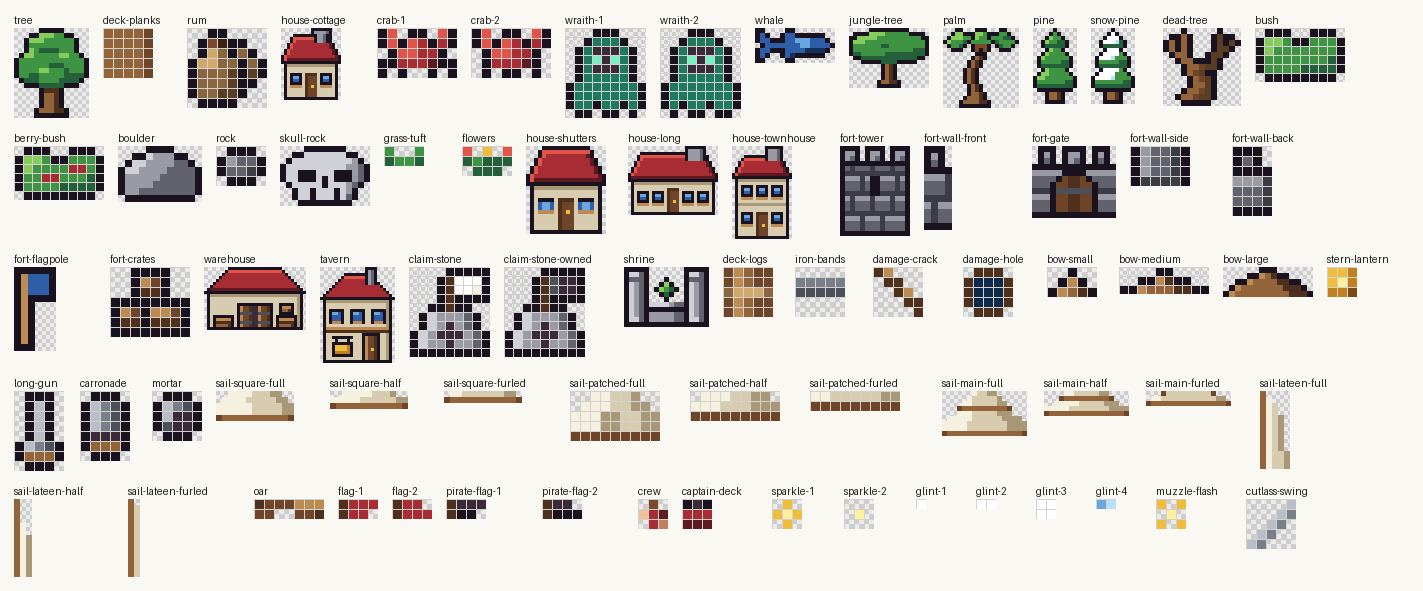
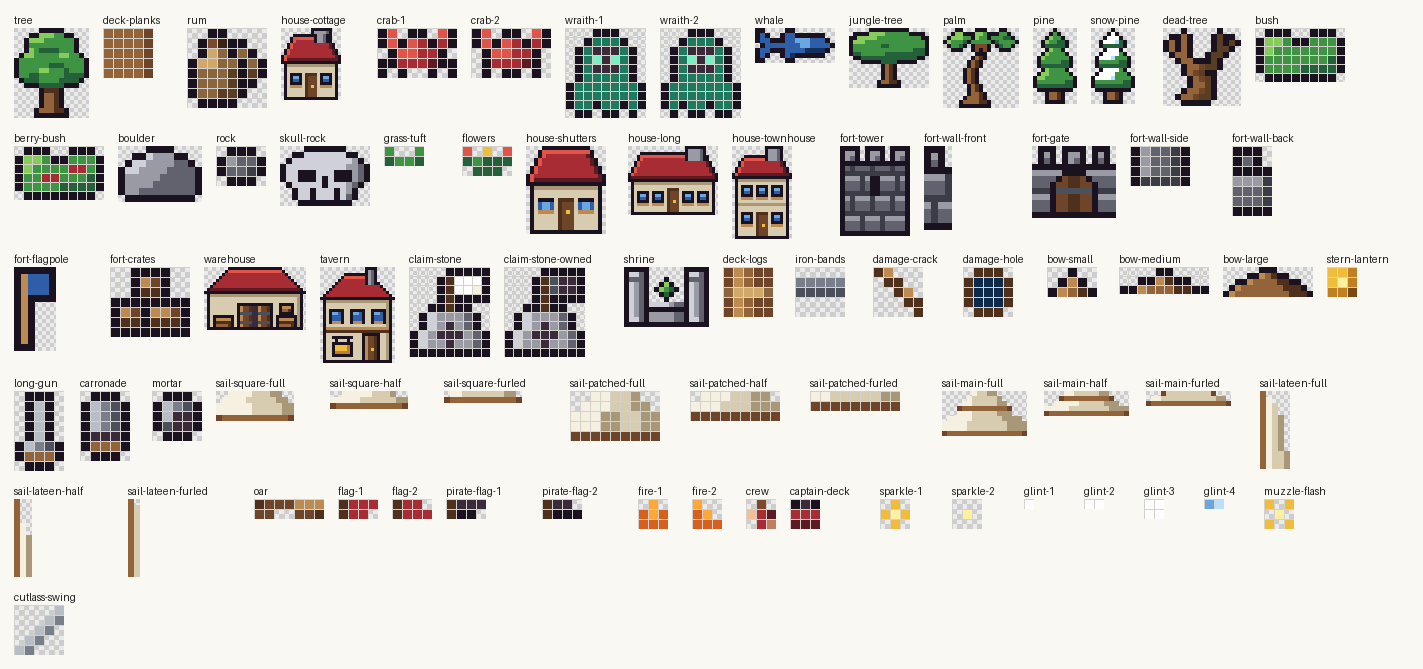
Approve deck fire
Claude-Session: https://claude.ai/code/session_017hBigdyyagtCxF8RX9TYQB

diff --git a/src/art/redraw.ts b/src/art/redraw.ts
@@ -22,6 +22,8 @@ const ROWS: Record<string, string[]> = {
   'dead-tree': ['...k.....k...', '.kkvk...kdkk.', 'kvkvk...kdkdk', 'kvkvk...kddk.', '.kvvk..kddk..', '..kvvkkkdk...', '...kvvWddk...', '...kvWdkk....', '....kvWdk....', '....kvvdk....', '...kvvWdk....', '..kvvWddk....', '...kkkkk.....'],
   'deck-logs': ['WVvWW', 'WVvWW', 'DfffD', 'WVvWW', 'WVvWW'],
   'deck-planks': ['vvvvW', 'vvvvW', 'vvvvW', 'vvvvW', 'vvvvW'],
+  'fire-1': ['.Q.', 'qQq', 'qqq'],
+  'fire-2': ['Q..', 'qQ.', 'qqq'],
   'flag-1': ['wRRR', 'wRR.'],
   'flag-2': ['wRR.', 'wRRR'],
   'flowers': ['e.y.e', 'GhGGG', '.GGG.'],

diff --git a/art/work/chests/notes.md b/art/work/chests/notes.md
@@ -1,4 +1,5 @@
-# chests
+# chests (batch props-small)
 
-## Current batch revision
-Closed chest clasp moved directly below its gold hinge band, where the lock attaches. The open gold-chest gains one permitted row (7 x 6) to close its gold heap outline; Y/y/O are connected coin clusters above the wooden rim. Closed and locked chests keep matching bodies; metal padlock and keyhole remain centred.
+- chest 7x6: lid is a lit band (V) with a v shade on its right edge, so the light comes from the top left. The gold strap (O) on the lid seam marks the lid line; the clasp (y) is the one bright gold pixel, dead centre on the strap. Body is v with a W shade down the right side. 1 px k outline on the silhouette.
+- locked-chest 7x6: same chest. The iron band (M) takes the lid seam. The padlock hangs from the band: its steel shackle bar (n) sits on the band, the lit lock top (N) and iron lock body (M) form a 3 px wide lock, and the dark keyhole (k) sits centre bottom.
+- gold-chest 7x6 (spec 7x5, one row more): the extra row lets the heap read as overflowing. A dome of three coins (Y y O, lit top left) sits on a five-coin pile (y y y O O), then the lit rim (V) and body. Five rows left the heap one pixel high.

diff --git a/art/work/crate/notes.md b/art/work/crate/notes.md
@@ -1,4 +1,4 @@
-# crate
+# crate (batch props-small)
 
-## Current batch revision
-Wood restricted to V/v/w (three tones). The lost-cargo variant is now 6 x 8, +1 permitted height, so an outlined red pennant and pole fit above the crate without an open top edge. Flag cloth uses R only. The flagged crate remains compact cargo, not a full-size crate with a floating flag.
+- crate 6x6: lit top face (V) so it reads as a box seen from above, two wood planks (v) with a dark seam (w) across the middle, and a W shade down the right side. Outline on the silhouette.
+- lost-cargo 6x7: the flag is a 2 x 2 red block (R, with an r shade on its lower right) on a 1 px wood pole (W). The pole's cap and the flag's top edge are outlined (k), the flag's bottom edge is the crate's top outline, and the pole stands on it. The same flag as waypoint. The crate is four rows here (top edge, lit top, one plank row, bottom) to fit the 7 px height, so the plank seam is dropped.

diff --git a/art/work/_batches/ship-small/review-2.md b/art/work/_batches/ship-small/review-2.md
@@ -1,0 +1,10 @@
+# Review round 2: ship-small
+
+Only `fire` failed in round 1; the other four families stay passed and are not relisted.
+
+## fire: PASS
+Round 1 issues:
+1. [MAJOR] fire-2 solid-square silhouette: fixed. fire-2 is now `Q..` / `qQ.` / `qqq` (6 of 9 pixels), a left-leaning triangle that differs clearly from fire-1 (`.Q.` / `qQq` / `qqq`). The base row and the core `Q` at (1,1) stay put, as the notes say.
+2. [MINOR] Side-profile flame instead of straight-down view: unchanged, still accepted as a documented judgment call.
+
+Fresh look: only `q`/`Q` are used, with no outline (allowed for effects) and no orphan pixels. The tip `Q` at (0,0) touches the `Q` core diagonally and the `q` at (0,1). Light is top left and the 3x3 size is exact. It reads as a flame on deck and on the sea at 1x in the sheet.

diff --git a/art/work/bottle/notes.md b/art/work/bottle/notes.md
@@ -1,4 +1,3 @@
-# bottle
+# bottle (batch props-small)
 
-## Current batch revision
-Redrawn at 5 x 6 (+1 each) to make the corked neck narrower than the glass shoulders. The h left glass highlight joins its lower pixel, G is the glass base, and x is the visible rolled message inside. A complete k contour closes the neck, shoulders and base.
+- bottle 5x6 (spec 4x5, one px more on each side): 4 px cannot hold a cork wider than the neck, a one-pixel neck and a body with paper in it. Cork (J lit, j dark) is widest, the neck is one green glass pixel (G), the body is three px of green glass with a lit h glint on its left and bone paper (x) rolled down the centre. Outline on the silhouette.

diff --git a/art/work/quest-mark/notes.md b/art/work/quest-mark/notes.md
@@ -1,4 +1,3 @@
-# quest-mark
+# quest-mark (batch props-small)
 
-## Current batch revision
-A simple gold y exclamation with a detached one-pixel dot, centred in its 3 x 5 canvas. The dot is a deliberate punctuation point; the <=3 px exception permits no outline.
+- quest-mark 4x5 (spec 3x5, one px more): the stroke is 2 px wide (y lit left, O shaded right) because a 1 px gold stroke is lost against sand. The gap row is empty and the dot is 2 px (same two tones). No outline: a 1 px outline around a 2 px stroke and a dot needs more than the 5 px height, and effect-style marks such as the approved sparkle are drawn without one.

diff --git a/art/work/waypoint/notes.md b/art/work/waypoint/notes.md
@@ -1,4 +1,3 @@
-# waypoint
+# waypoint (batch props-small)
 
-## Current batch revision
-The red marker is now 5 x 8 (+1 height) so the flag top receives a full k outline. Pole stays straight, flags use only swap R cloth, and the lower edge narrows naturally down to the outlined pole.
+- waypoint 5x7: a 1 px wood pole (W) on the left with an outline (k) down its left side, a pole cap at the top and a base on the bottom row. The flag is 2 x 3 red (R, shaded r on its lower right) hanging to the right, outlined on its top, right and bottom edges. No outline between the pole and the flag, which are one object.

diff --git a/art/work/barrel/notes.md b/art/work/barrel/notes.md
@@ -1,4 +1,3 @@
-# barrel
+# barrel (batch props-small)
 
-## Current batch revision
-Rounded 5 x 6 wooden barrel with a lit top, shaded staves and two dark M iron hoops. Retained exact spec dimensions and continuous outer k edge. Reads against sand and water.
+- barrel 5x6: rounded top and base (the outline corners are cut), two iron hoops (M) across the staves, lit staves on the left (V, v) and a W shade on the right stave. Stands on the bottom row. Outline on the silhouette.

diff --git a/art/work/dock-planks/notes.md b/art/work/dock-planks/notes.md
@@ -1,4 +1,3 @@
-# dock-planks
+# dock-planks (batch props-small)
 
-## Current batch revision
-4 x 4 exact tiling dock surface: v planks and a W cross-seam row. No outline. The repeated seam is the real join between boards, not a border.
+- dock-planks 4x4 (fixed): three plank rows (v) and one seam row (W) along the bottom edge, so the tile repeats along the pier. Same two wood tones as the approved deck-planks. No outline: it is a tiling tile.

diff --git a/art/work/dig-spot/notes.md b/art/work/dig-spot/notes.md
@@ -1,4 +1,3 @@
-# dig-spot
+# dig-spot (batch props-small)
 
-## Current batch revision
-A low mound of disturbed sand in three F/D/d tones, brightest on the upper-left crest and darkest along the lower/right edge. Ground mark deliberately has no outline.
+- dig-spot 6x4: a mound of sand. F on the crest and upper left, D for the body, d on the right and underneath. No outline: it is a ground mark, drawn like the approved sand marks.

diff --git a/art/work/x-mark/notes.md b/art/work/x-mark/notes.md
@@ -1,4 +1,3 @@
-# x-mark
+# x-mark (batch props-small)
 
-## Current batch revision
-Bold six-pixel red ground X with evenly stepped diagonal strokes and no outline. No texture pixels or unrelated decoration.
+- x-mark 6x6: two 2 px diagonals crossing in a 2 x 2 centre (rows 2 and 3). Flat red (R) with no shading, as a painted ground mark. No outline.

diff --git a/art/APPROVED.md b/art/APPROVED.md
@@ -46,3 +46,4 @@ Families the critic has passed. Match their style.
 - deck-people (sails) — round 1
 - crab (characters) — round 1
 - wraith (characters) — round 1
+- fire (sails) — round 2
